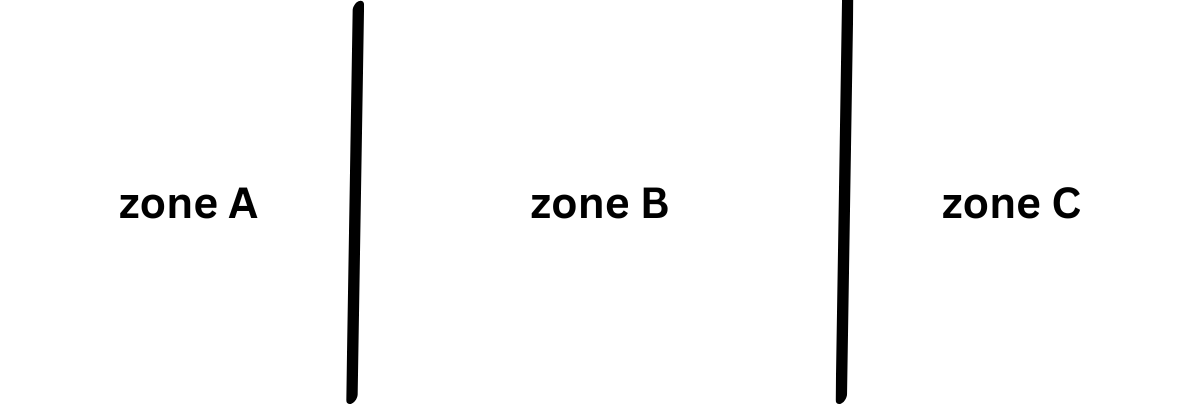
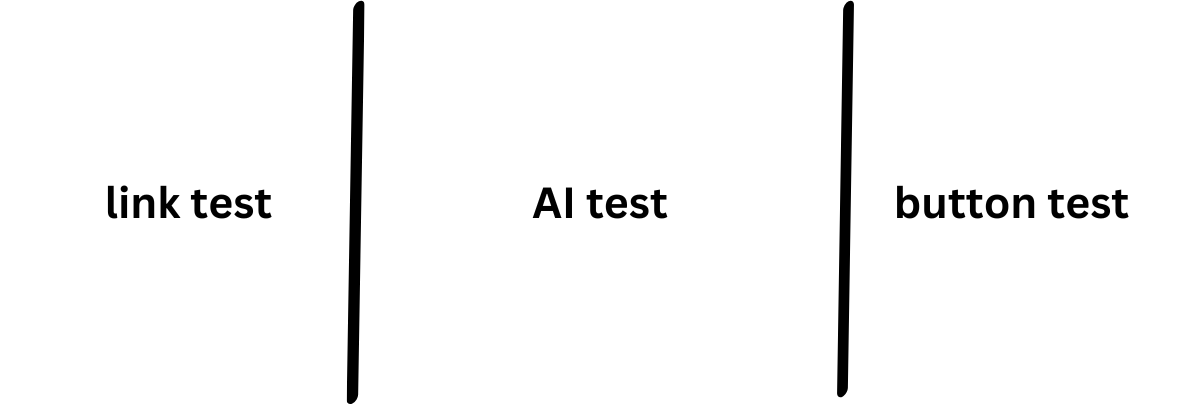
adding the selection testing 1

diff --git a/app.py b/app.py
@@ -91,11 +91,7 @@ def setUpInterface():
         chat_bar_text="測試使用",
         areas=[RichMenuArea(  # 這邊是陣列的格式，可以動態設定自己要的區域想要有什麼功能
             bounds=RichMenuBounds(x=0, y=0, width=400, height=405),
-            action= {
-                "type":"message",
-                "label":"zong A",
-                "text": "infoA"
-            })
+            action= URIAction(label='link test', uri='https://line.me'))
             ,
             RichMenuArea(bounds=RichMenuBounds(x=400, y=0, width=400, height=405),
             action= {
@@ -105,10 +101,11 @@ def setUpInterface():
             }),
             RichMenuArea(bounds=RichMenuBounds(x=800, y=0, width=400, height=405),
             action= {
-                "type":"message",
-                "label":"zong C",
-                "text": "infoC"
-            }
+                MessageAction(
+                    label='message',
+                    text=buttontemplate()
+                    )
+                }
             )]
     )
     rich_menu_id = line_bot_api.create_rich_menu(rich_menu=rich_menu_to_create)
@@ -116,6 +113,31 @@ def setUpInterface():
     print(rich_menu_id)
 
 
+def buttontemplate():
+    button_template_message = TemplateSendMessage(
+    alt_text = "invisiable",
+    template = ButtonsTemplate(
+        thumbnail_imgae_url = "",
+        title = "button testing ",
+        text = "text....",
+        actions = [
+                URIAction(
+                    label = "line",
+                    uri = "https://line.me"
+                ),
+                MessageAction(
+                    label = "button testing",
+                    text = "testing "
+                ),
+                PostbackAction(
+                    lable = "postback testing",
+                    displayText = "test postback plz",
+                    data = "testing ..."
+                )
+            ]
+        )
+    )
+    return button_template_message
         
         
 import os
